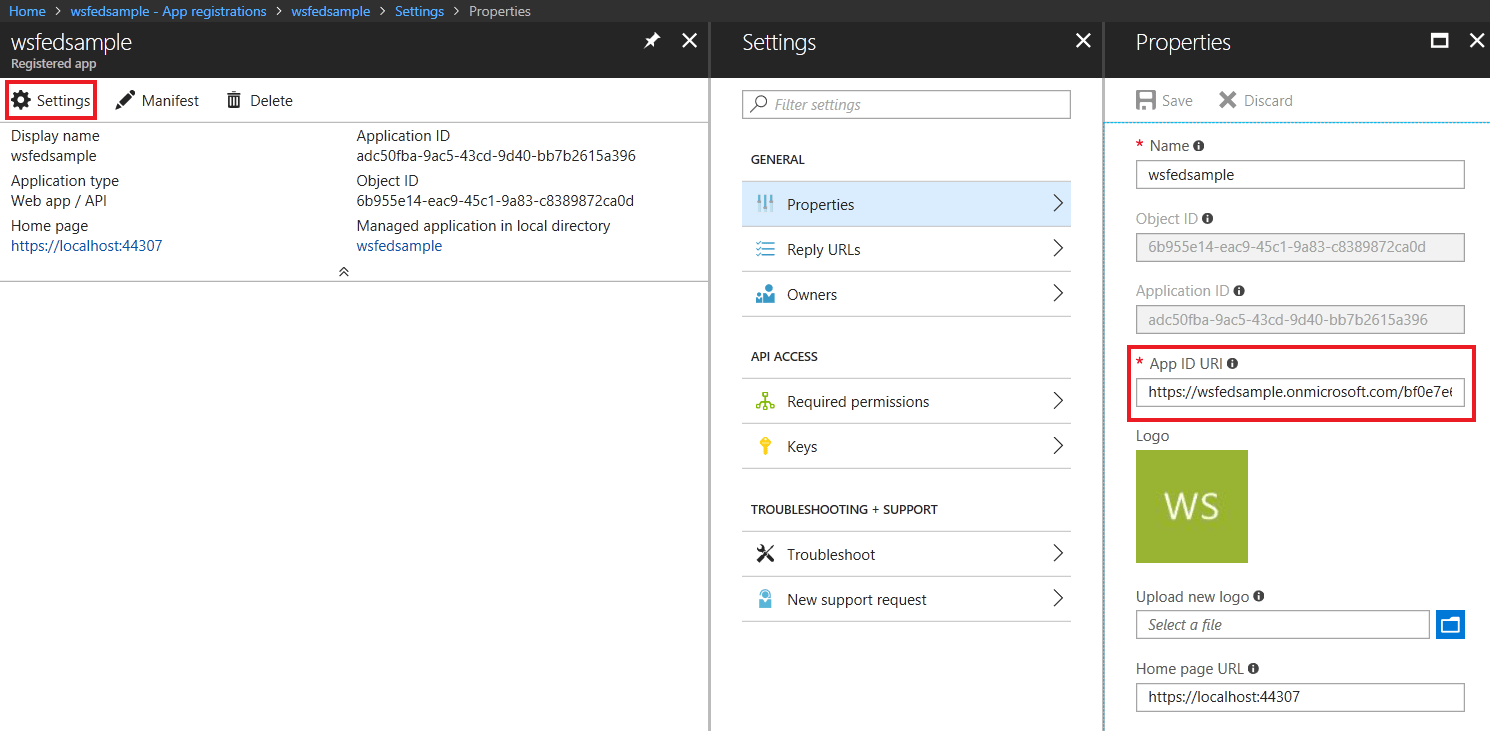
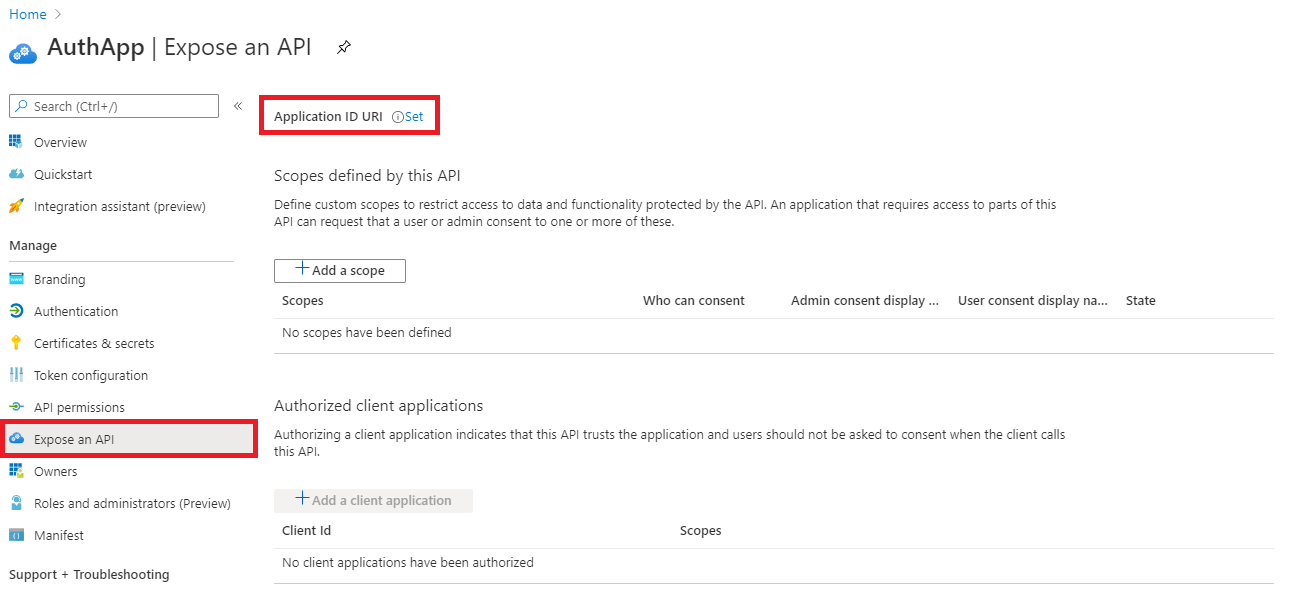
WsFed instructions update (#18931)
* Update WsFed instructions

* It's no longer in settings

* Remove redundant image

diff --git a/aspnetcore/security/authentication/ws-federation/samples/Startup21.cs b/aspnetcore/security/authentication/ws-federation/samples/Startup21.cs
@@ -39,13 +39,13 @@ namespace WebApp21
                 {
                     // MetadataAddress represents the Active Directory instance used to authenticate users.
                     options.MetadataAddress = "https://<ADFS FQDN or AAD tenant>/FederationMetadata/2007-06/FederationMetadata.xml";
-            
+
                     // Wtrealm is the app's identifier in the Active Directory instance.
                     // For ADFS, use the relying party's identifier, its WS-Federation Passive protocol URL:
                     options.Wtrealm = "https://localhost:44307/";
-            
-                    // For AAD, use the App ID URI from the app registration's Properties blade:
-                    options.Wtrealm = "https://wsfedsample.onmicrosoft.com/bf0e7e6d-056e-4e37-b9a6-2c36797b9f01";
+
+                    // For AAD, use the Application ID URI from the app registration's Overview blade:
+                    options.Wtrealm = "api://bbd35166-7c13-49f3-8041-9551f2847b69";
                 });
 
             services.AddMvc().SetCompatibilityVersion(CompatibilityVersion.Version_2_1);

diff --git a/aspnetcore/security/authentication/ws-federation/samples/Startup31.cs b/aspnetcore/security/authentication/ws-federation/samples/Startup31.cs
@@ -38,8 +38,8 @@ namespace WebApplication88
                     // For ADFS, use the relying party's identifier, its WS-Federation Passive protocol URL:
                     options.Wtrealm = "https://localhost:44307/";
 
-                    // For AAD, use the App ID URI from the app registration's Properties blade:
-                    options.Wtrealm = "https://wsfedsample.onmicrosoft.com/bf0e7e6d-056e-4e37-b9a6-2c36797b9f01";
+                    // For AAD, use the Application ID URI from the app registration's Overview blade:
+                    options.Wtrealm = "api://bbd35166-7c13-49f3-8041-9551f2847b69";
                 });
 
             services.AddControllersWithViews();

diff --git a/aspnetcore/security/authentication/ws-federation.md b/aspnetcore/security/authentication/ws-federation.md
@@ -71,7 +71,7 @@ By default, the new middleware:
 
 ![Azure Active Directory: Endpoints](ws-federation/_static/AadFederationMetadataDocument.png)
 
-* Navigate to the new app registration. Click **Settings** > **Properties** and make note of the **App ID URI**. This is the WS-Federation middleware's `Wtrealm`:
+* Navigate to the new app registration. Click **Expose an API**. Click Application ID URI **Set** > **Save**. Make note of the  **Application ID URI**. This is the WS-Federation middleware's `Wtrealm`:
 
 ![Azure Active Directory: App registration properties](ws-federation/_static/AadAppIdUri.png)
 
